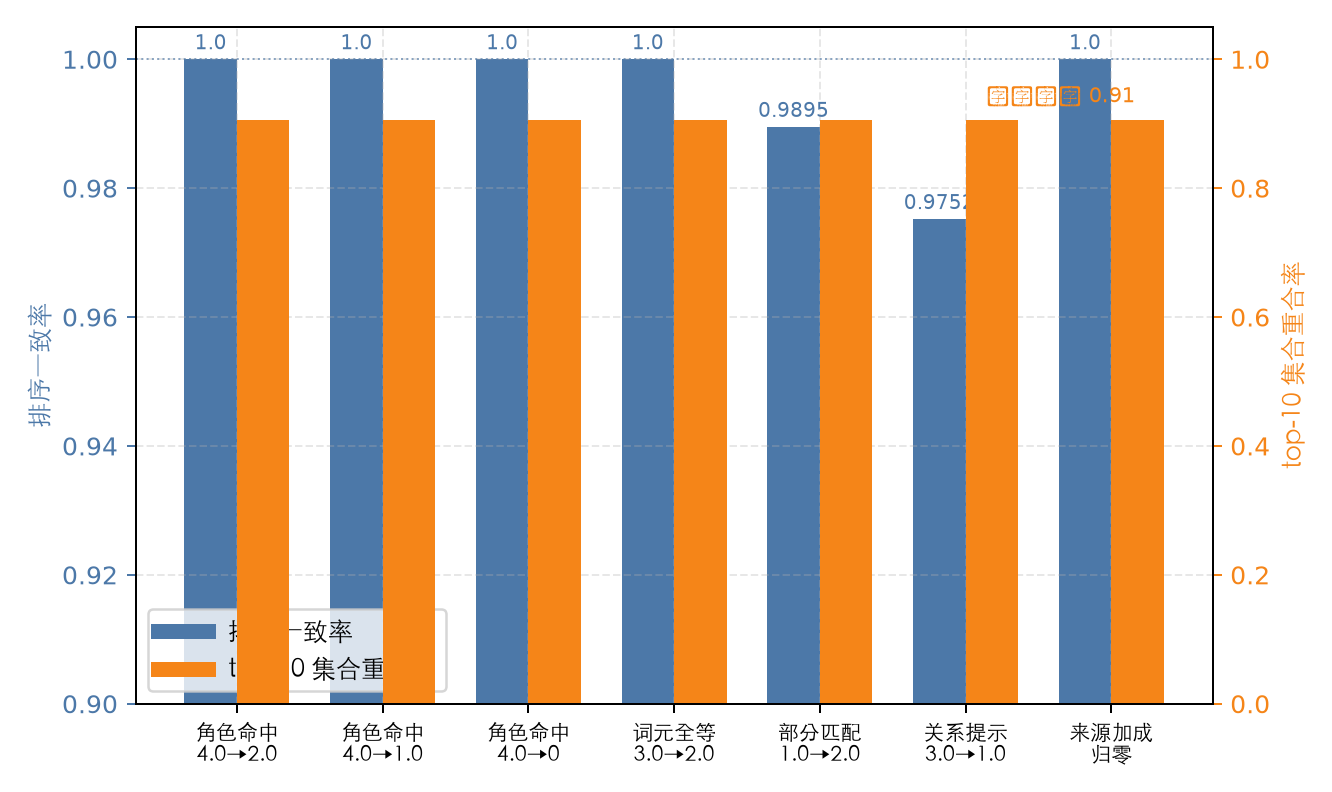
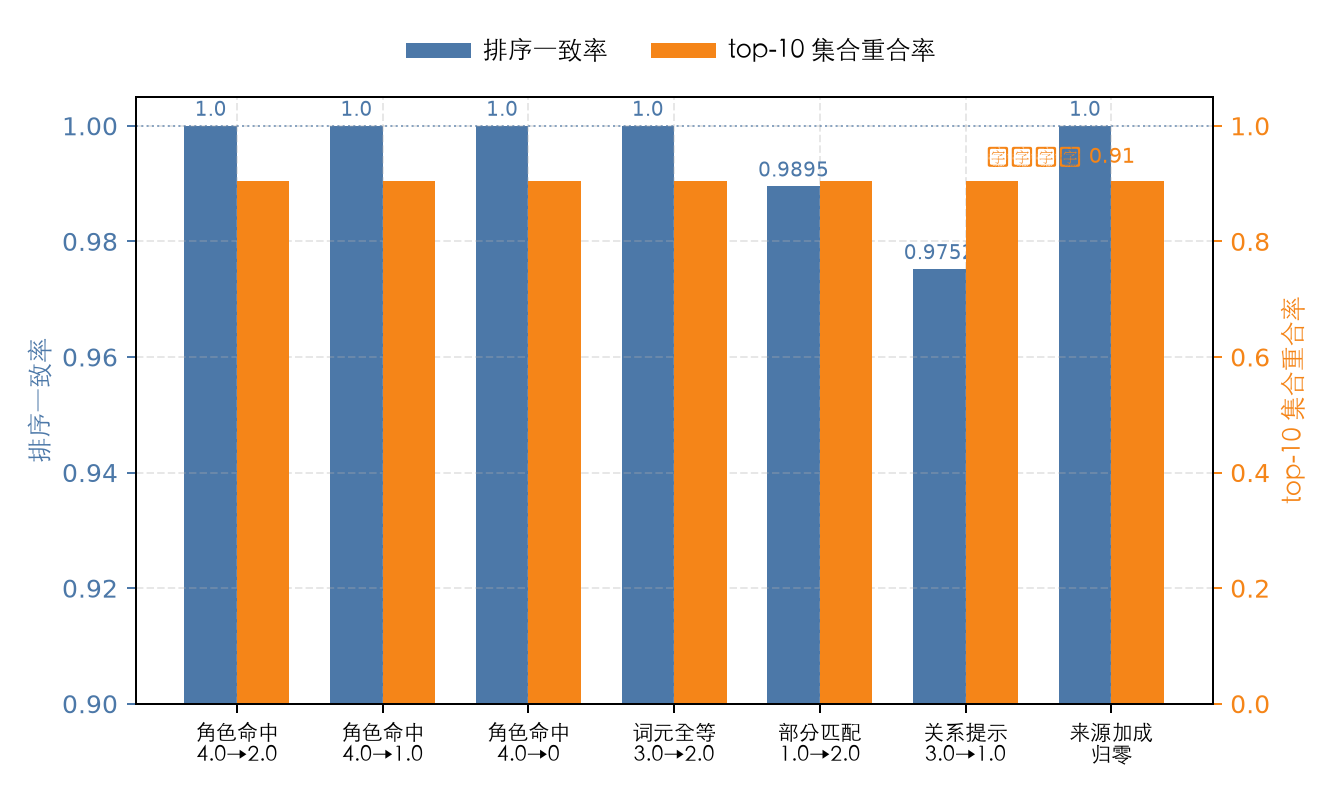
[证据线] fix(thesis): 用户点名 9 处图表格式修复轮——图5-1 needspace28 消题注跨页+右侧四实体间距拉开消字叠;图5-3 重构两行六框布局(下行三框 34mm)消框叠乱码;图6-6 状态框加宽两行化;图6-8 绕线避 run 框;图6-9 间距6mm+l1 左移消与 g4 交叠;图6-14 直角绕线+gate 移右下;图7-3 图例移图上方重生成;图6-3/6-4 用 Browser Use 重截全页(1600x1483 完整视口);装订顺序按细则调为正文→致谢→参考文献→附录;126 页,全量扫描出血0残留0,重叠全为截图盲区/OCR误报

diff --git a/scripts/render/generate_score53_ablation_chart.py b/scripts/render/generate_score53_ablation_chart.py
@@ -106,12 +106,9 @@ def main() -> None:
         plt.Line2D([0], [0], color="#F58518", lw=6, label="top-10 集合重合率"),
     ]
     if font is not None:
-        for handle in legend_lines:
-            handle.set_fontproperties(font)
-    if font is not None:
-        legend = axis_left.legend(handles=legend_lines, loc="lower left", prop=font, fontsize=9)
+        legend = axis_left.legend(handles=legend_lines, loc="lower center", bbox_to_anchor=(0.5, 1.02), ncol=2, prop=font, fontsize=9, frameon=False)
     else:
-        legend = axis_left.legend(handles=legend_lines, loc="lower left", fontsize=9)
+        legend = axis_left.legend(handles=legend_lines, loc="lower center", bbox_to_anchor=(0.5, 1.02), ncol=2, fontsize=9, frameon=False)
     axis_left.set_title("")
 
     CHART_PATH.parent.mkdir(parents=True, exist_ok=True)

diff --git a/reviews/round-04/ahnu-format-checklist.md b/reviews/round-04/ahnu-format-checklist.md
@@ -76,13 +76,13 @@
 - 摘要：中文摘要 1000 字以内，关键词 3-5 个；另需 1500-3000 字详细摘要（B5 纸，答辩材料用，非论文装订册内容）
 - 参考文献口径为描述性（编号+作者+题名+刊名+年卷期页），与 GB/T 7714 顺序编码制一致 → biblatex-gb7714-2015 可直接复用
 - 装订顺序：标题页、签名页、中文摘要、外文摘要、目录、正文、致谢、符号表、插图清单、表格清单、参考文献、附录
-  → 现版顺序"封面→声明→摘要→目录→正文→附录→参考文献→致谢"需调整为**参考文献、致谢在附录之前**
+  → 已调整为"封面→声明→摘要→目录→正文→致谢→参考文献→附录"（2026-09-10 用户确认）
 - 细则未要求双语题注、未强制页眉文字 → G5 双语题注暂缓
 
 ## 8. 遗留待办
 
 | 项 | 说明 |
 |---|---|
-| 装订顺序调整 | main.tex 中附录在参考文献前，细则要求参考文献→致谢→附录；待用户确认后调整 |
+| ~~装订顺序调整~~ | ✅ 已按用户确认调整为 正文→致谢→参考文献→附录（main.tex 2026-09-10） |
 | Windows 终排 | 本机无 SimSun/SimHei，当前用 Songti SC 替代；终稿需在 Windows 重排验证中易字体 |
 | 詳细摘要 B5 版 | 1500-3000 字详细摘要为答辩材料，尚未制作 |
